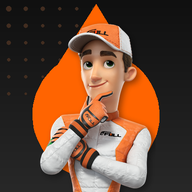
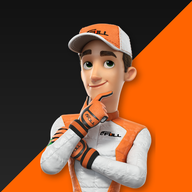
Add files via upload

diff --git a/sw.js b/sw.js
@@ -1,5 +1,5 @@
 // Service worker — cache para funcionamento offline
-const CACHE = "postos-full-v27";
+const CACHE = "postos-full-v28";
 const ARQUIVOS = ["./", "./index.html", "./manifest.json", "./icon-192.png", "./icon-512.png", "./logo-full.png"];
 
 self.addEventListener("install", e => {